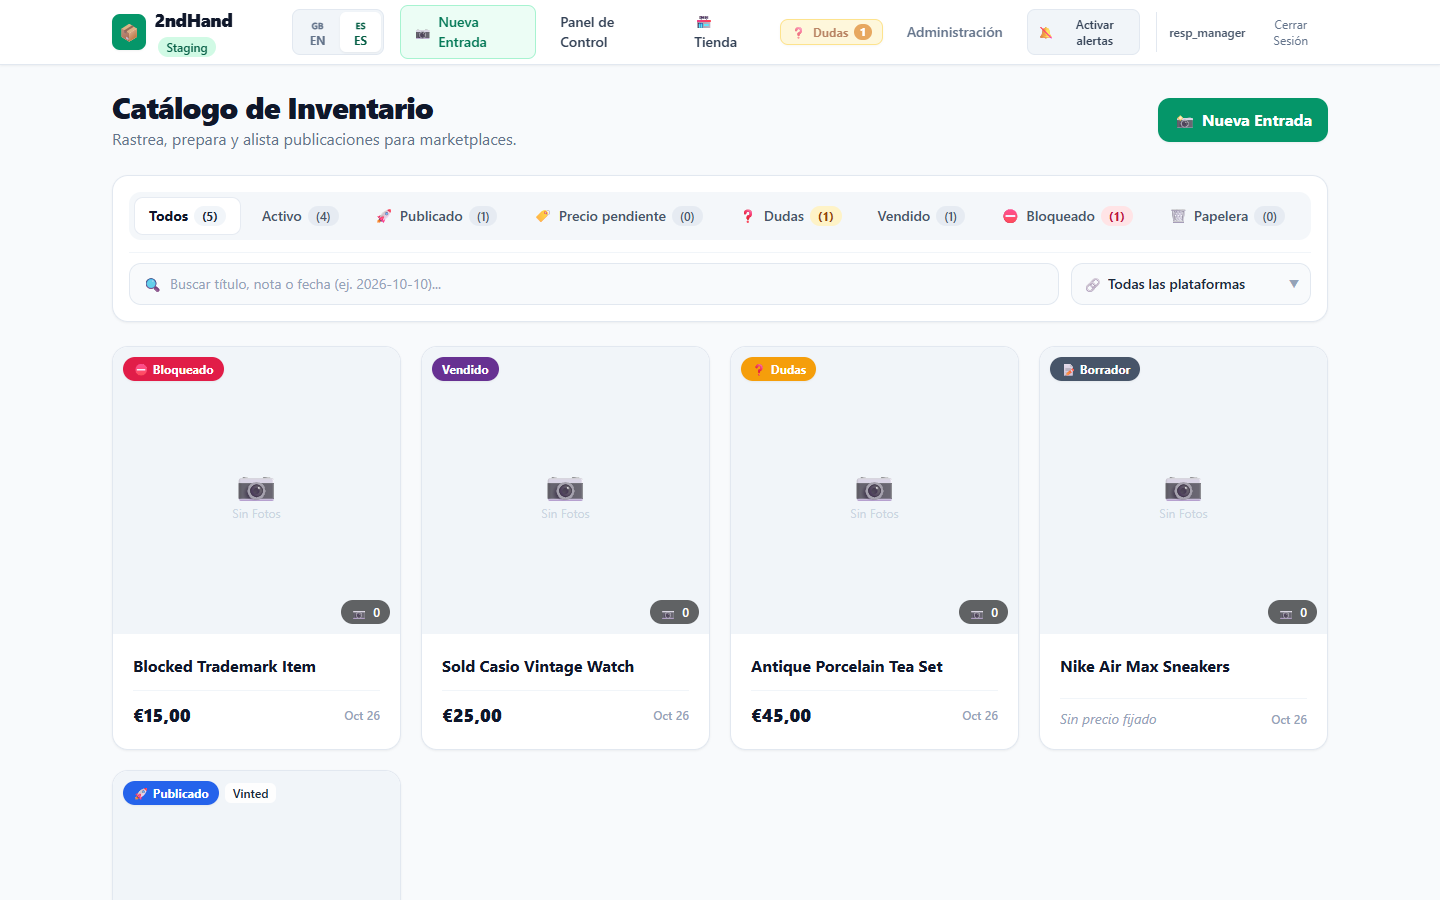
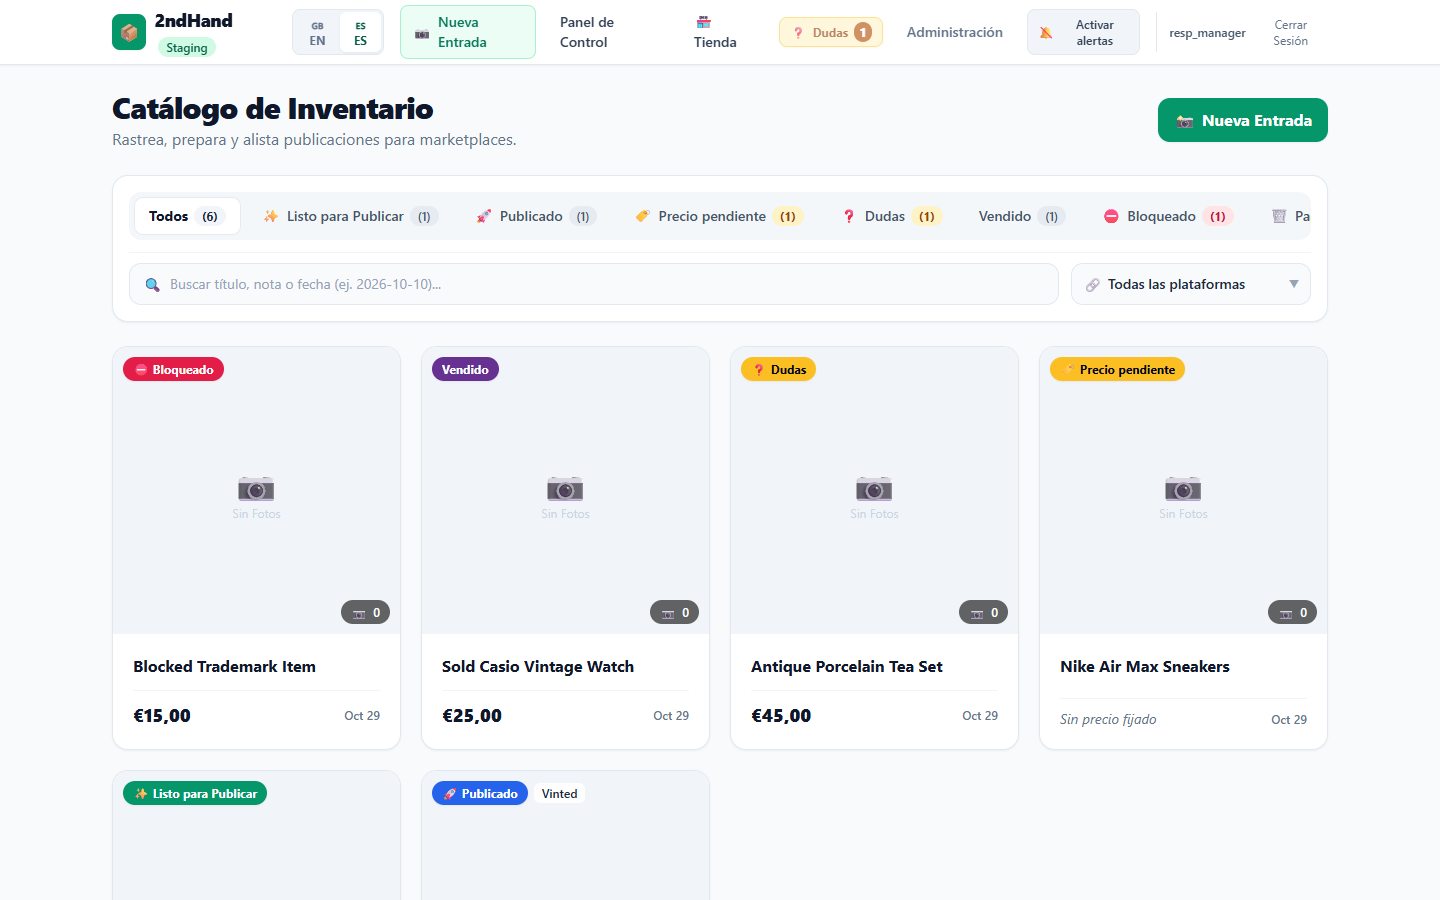
feat(dashboard): replace active tab with ready to publish filter and badge

diff --git a/inventory/templates/inventory/dashboard.html b/inventory/templates/inventory/dashboard.html
@@ -40,14 +40,16 @@
           </span>
         </a>
 
-        <!-- Active -->
-        <a href="?status=active{% if platform_filter %}&platform={{ platform_filter }}{% endif %}{% if search_query %}&q={{ search_query|urlencode }}{% endif %}"
+        <!-- Ready to Publish -->
+        <a href="?status=ready{% if platform_filter %}&platform={{ platform_filter }}{% endif %}{% if search_query %}&q={{ search_query|urlencode }}{% endif %}"
            role="tab"
-           aria-selected="{% if status_filter == 'active' %}true{% else %}false{% endif %}"
-           class="shrink-0 whitespace-nowrap inline-flex items-center gap-1.5 px-3.5 py-2 rounded-lg transition duration-150 {% if status_filter == 'active' %}bg-white text-emerald-800 shadow-xs ring-1 ring-emerald-200 font-bold{% else %}text-slate-600 hover:text-slate-900 hover:bg-slate-200/60{% endif %}">
-          <span>{% trans "Active" %}</span>
-          <span class="inline-flex items-center justify-center px-2 py-0.5 rounded-full text-xs {% if status_filter == 'active' %}bg-emerald-100 text-emerald-800 font-bold{% else %}bg-slate-200/80 text-slate-600{% endif %}">
-            ({{ active_count }})
+           id="tab-ready"
+           aria-selected="{% if status_filter == 'ready' %}true{% else %}false{% endif %}"
+           class="shrink-0 whitespace-nowrap inline-flex items-center gap-1.5 px-3.5 py-2 rounded-lg transition duration-150 {% if status_filter == 'ready' %}bg-white text-emerald-800 shadow-xs ring-1 ring-emerald-200 font-bold{% else %}text-slate-600 hover:text-slate-900 hover:bg-slate-200/60{% endif %}">
+          <span aria-hidden="true">✨</span>
+          <span>{% trans "Ready to Publish" %}</span>
+          <span class="inline-flex items-center justify-center px-2 py-0.5 rounded-full text-xs {% if status_filter == 'ready' %}bg-emerald-100 text-emerald-800 font-bold{% else %}bg-slate-200/80 text-slate-600{% endif %}">
+            ({{ ready_count }})
           </span>
         </a>
 
@@ -302,7 +304,7 @@
           {% endif %}
           {% elif product.status == 'ready' %}
           <span class="text-xs font-bold px-2.5 py-1 rounded-full shadow-sm bg-emerald-600 text-white">
-            ✨ {% trans "Ready" %}
+            ✨ {% trans "Ready to Publish" %}
           </span>
           {% elif product.status == 'draft' %}
           <span class="text-xs font-bold px-2.5 py-1 rounded-full shadow-sm bg-slate-600 text-white">

diff --git a/inventory/templates/inventory/product_detail.html b/inventory/templates/inventory/product_detail.html
@@ -41,7 +41,7 @@
           {% else %}bg-slate-100 text-slate-700 border border-slate-300{% endif %}">
           {% if product.is_deleted %}🗑 {% trans "Erased" %}
           {% elif product.status == 'awaiting_info' %}❓ {% trans "Awaiting Info" %}
-          {% elif product.status == 'ready' %}✅ {% trans "Ready" %}
+          {% elif product.status == 'ready' %}✅ {% trans "Ready to Publish" %}
           {% elif product.status == 'price_pending' %}🏷 {% trans "Price Pending" %}
           {% elif product.status == 'published' %}🚀 {% trans "Published" %}
           {% elif product.status == 'blocked' %}⛔ {% trans "Blocked" %}

diff --git a/tests/test_dashboard.py b/tests/test_dashboard.py
@@ -19,18 +19,20 @@ class DashboardViewTests(TestCase):
         self.p1 = Product.objects.create(
             raw_note="Sony headphones wireless black",
             ai_title="Sony WH-1000XM4 Wireless Headphones",
+            ai_description="Premium wireless noise cancelling headphones.",
             sale_price=Decimal("150.00"),
-            is_sold=False
+            is_sold=False,
         )
         self.p2 = Product.objects.create(
             raw_note="Vintage trench coat beige",
             ai_title="Burberry Beige Trench Coat",
+            ai_description="Classic trench coat in good vintage condition.",
             sale_price=Decimal("220.00"),
-            is_sold=True
+            is_sold=True,
         )
         self.p3 = Product.objects.create(
             raw_note="Leather boots size 42",
-            is_sold=False
+            is_sold=False,
         )
 
     def test_dashboard_requires_login(self):
@@ -43,8 +45,21 @@ class DashboardViewTests(TestCase):
         self.assertEqual(resp.status_code, 200)
         self.assertEqual(len(resp.context["products"]), 3)
         self.assertEqual(resp.context["total_count"], 3)
+        self.assertEqual(resp.context["ready_count"], 1)
         self.assertEqual(resp.context["active_count"], 2)
         self.assertEqual(resp.context["sold_count"], 1)
+
+    def test_dashboard_ready_filter(self):
+        self.client.login(username="testmanager", password="password123")
+        resp = self.client.get(self.url, {"status": "ready"})
+        self.assertEqual(resp.status_code, 200)
+        products = list(resp.context["products"])
+        self.assertEqual(len(products), 1)
+        self.assertIn(self.p1, products)
+        self.assertNotIn(self.p2, products)
+        self.assertNotIn(self.p3, products)
+        self.assertContains(resp, "Ready to Publish")
+        self.assertContains(resp, "(1)")
 
     def test_dashboard_active_filter(self):
         self.client.login(username="testmanager", password="password123")
@@ -55,6 +70,12 @@ class DashboardViewTests(TestCase):
         self.assertIn(self.p1, products)
         self.assertIn(self.p3, products)
         self.assertNotIn(self.p2, products)
+
+    def test_dashboard_ready_tab_spanish_localization(self):
+        self.client.login(username="testmanager", password="password123")
+        resp = self.client.get(self.url, {"status": "ready"}, HTTP_ACCEPT_LANGUAGE="es")
+        self.assertEqual(resp.status_code, 200)
+        self.assertContains(resp, "Listo para Publicar")
 
     def test_dashboard_sold_filter(self):
         self.client.login(username="testmanager", password="password123")

diff --git a/tests/test_dashboard_responsive.py b/tests/test_dashboard_responsive.py
@@ -38,21 +38,31 @@ class DashboardResponsiveUITests(StaticLiveServerTestCase):
         )
 
         # Create products in each distinct state so all tabs appear with counts
-        p_active = Product.objects.create(
+        p_published = Product.objects.create(
             ai_title="Vintage Leather Jacket",
+            ai_description="Classic black leather jacket in great condition.",
             sale_price=Decimal("89.99"),
             status=ProductStatus.READY,
             is_sold=False,
         )
         ProductListingLink.objects.create(
-            product=p_active,
+            product=p_published,
             site=self.site_vinted,
             url="https://vinted.es/items/123",
             is_active=True,
         )
 
         Product.objects.create(
+            ai_title="Ready Designer Sunglasses",
+            ai_description="UV protection, like new with protective case.",
+            sale_price=Decimal("49.99"),
+            status=ProductStatus.READY,
+            is_sold=False,
+        )
+
+        Product.objects.create(
             ai_title="Nike Air Max Sneakers",
+            ai_description="Comfortable running shoes, size 42.",
             sale_price=None,
             status=ProductStatus.PRICE_PENDING,
             is_sold=False,
@@ -99,6 +109,8 @@ class DashboardResponsiveUITests(StaticLiveServerTestCase):
             page.wait_for_load_state("networkidle")
 
             viewports = [
+                ("320x711_oppo_a74_zoomed", 320, 711),
+                ("360x800_oppo_a74_standard", 360, 800),
                 ("390x844_mobile", 390, 844),
                 ("768x1024_tablet", 768, 1024),
                 ("1024x768_laptop", 1024, 768),
@@ -113,6 +125,10 @@ class DashboardResponsiveUITests(StaticLiveServerTestCase):
                 # Verify status tab rail exists
                 tablist = page.locator('nav[role="tablist"]')
                 self.assertTrue(tablist.is_visible(), f"Status tablist must be visible at {label}")
+
+                # Verify Ready to Publish tab exists
+                ready_tab = page.locator("#tab-ready")
+                self.assertTrue(ready_tab.count() > 0, f"Ready to Publish tab must exist at {label}")
 
                 # Verify all tabs exist in the DOM
                 tabs = tablist.locator('a[role="tab"]').all()
